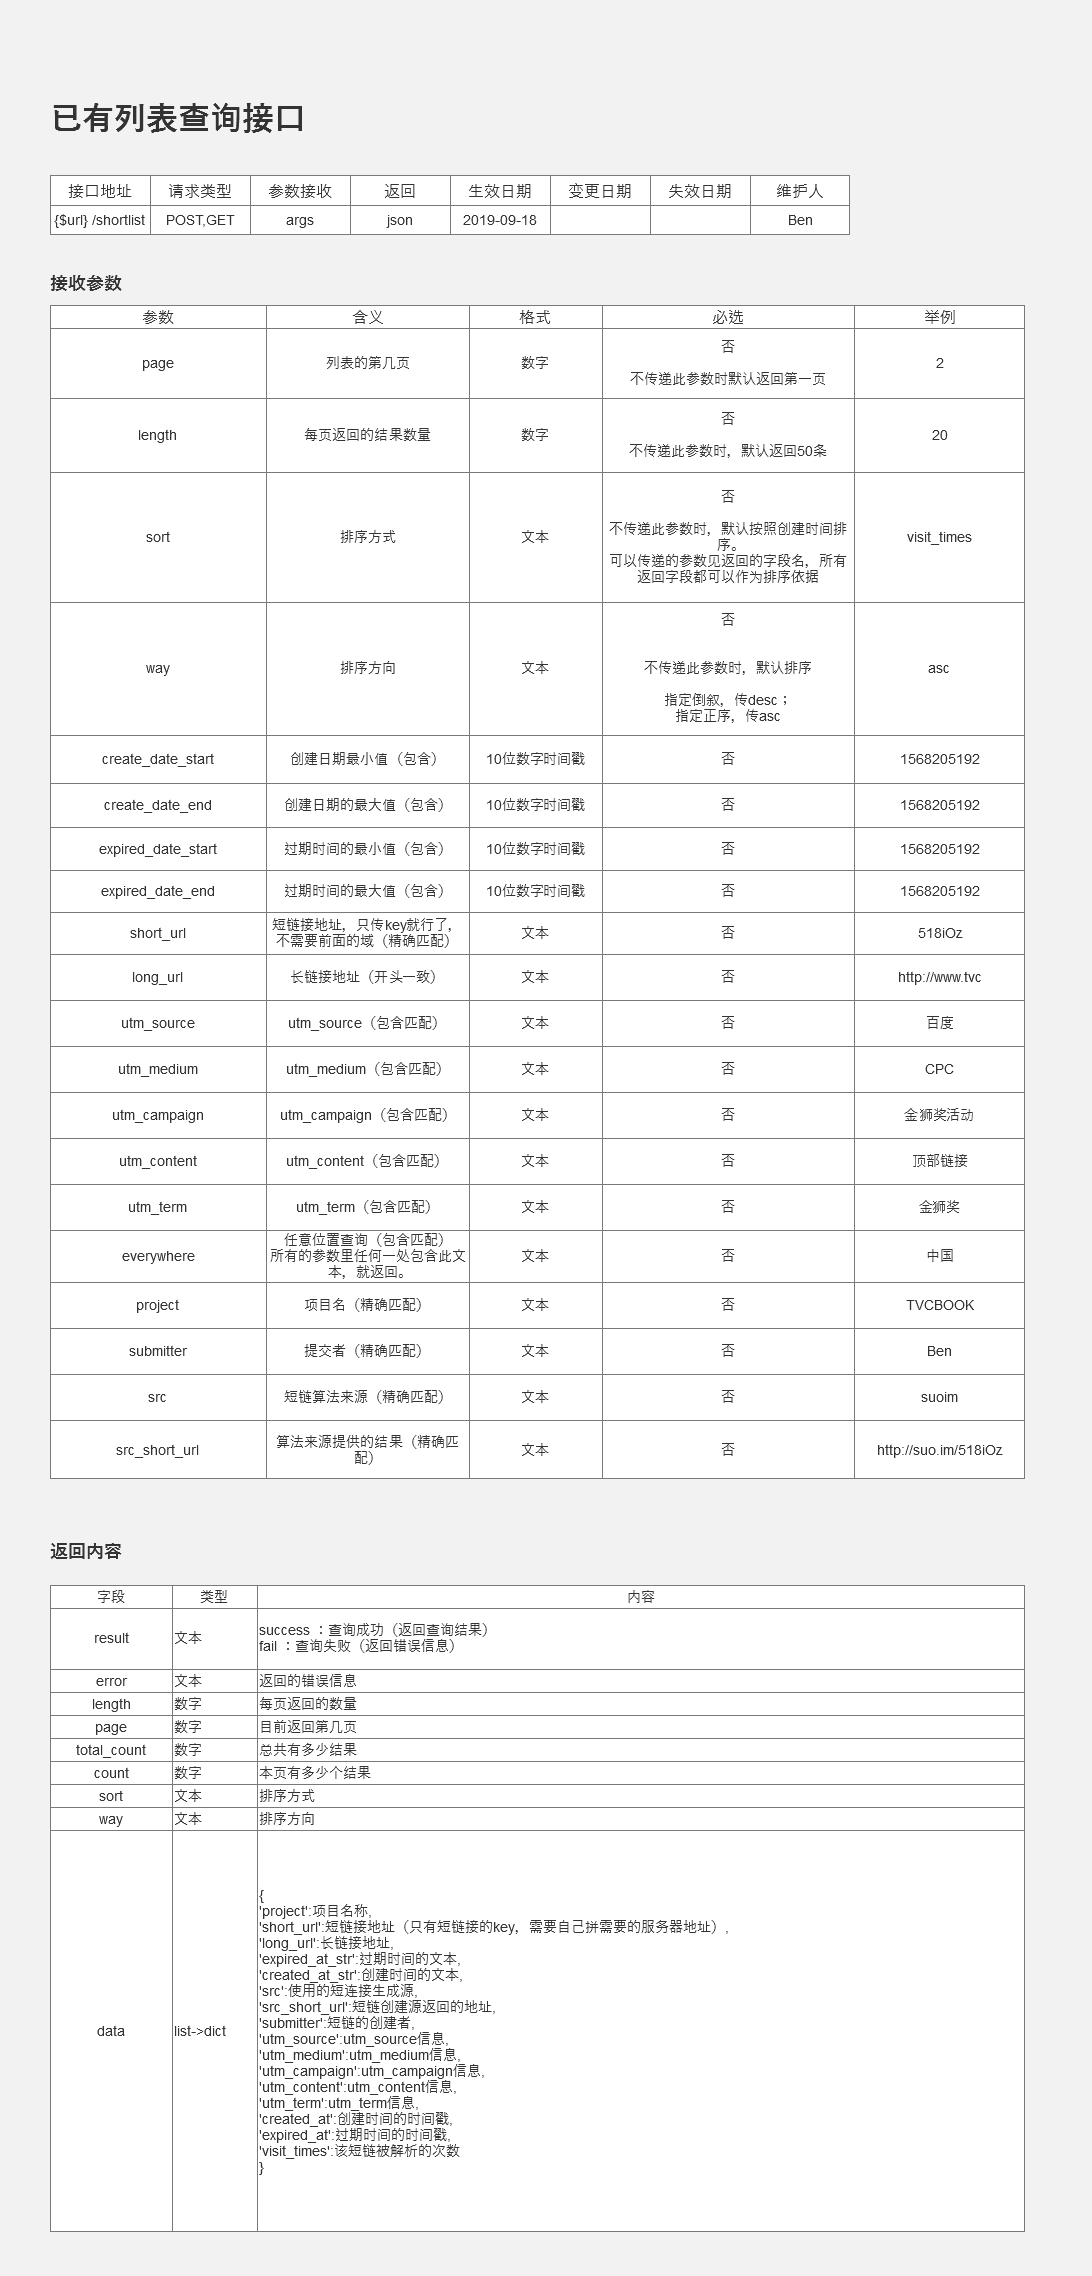
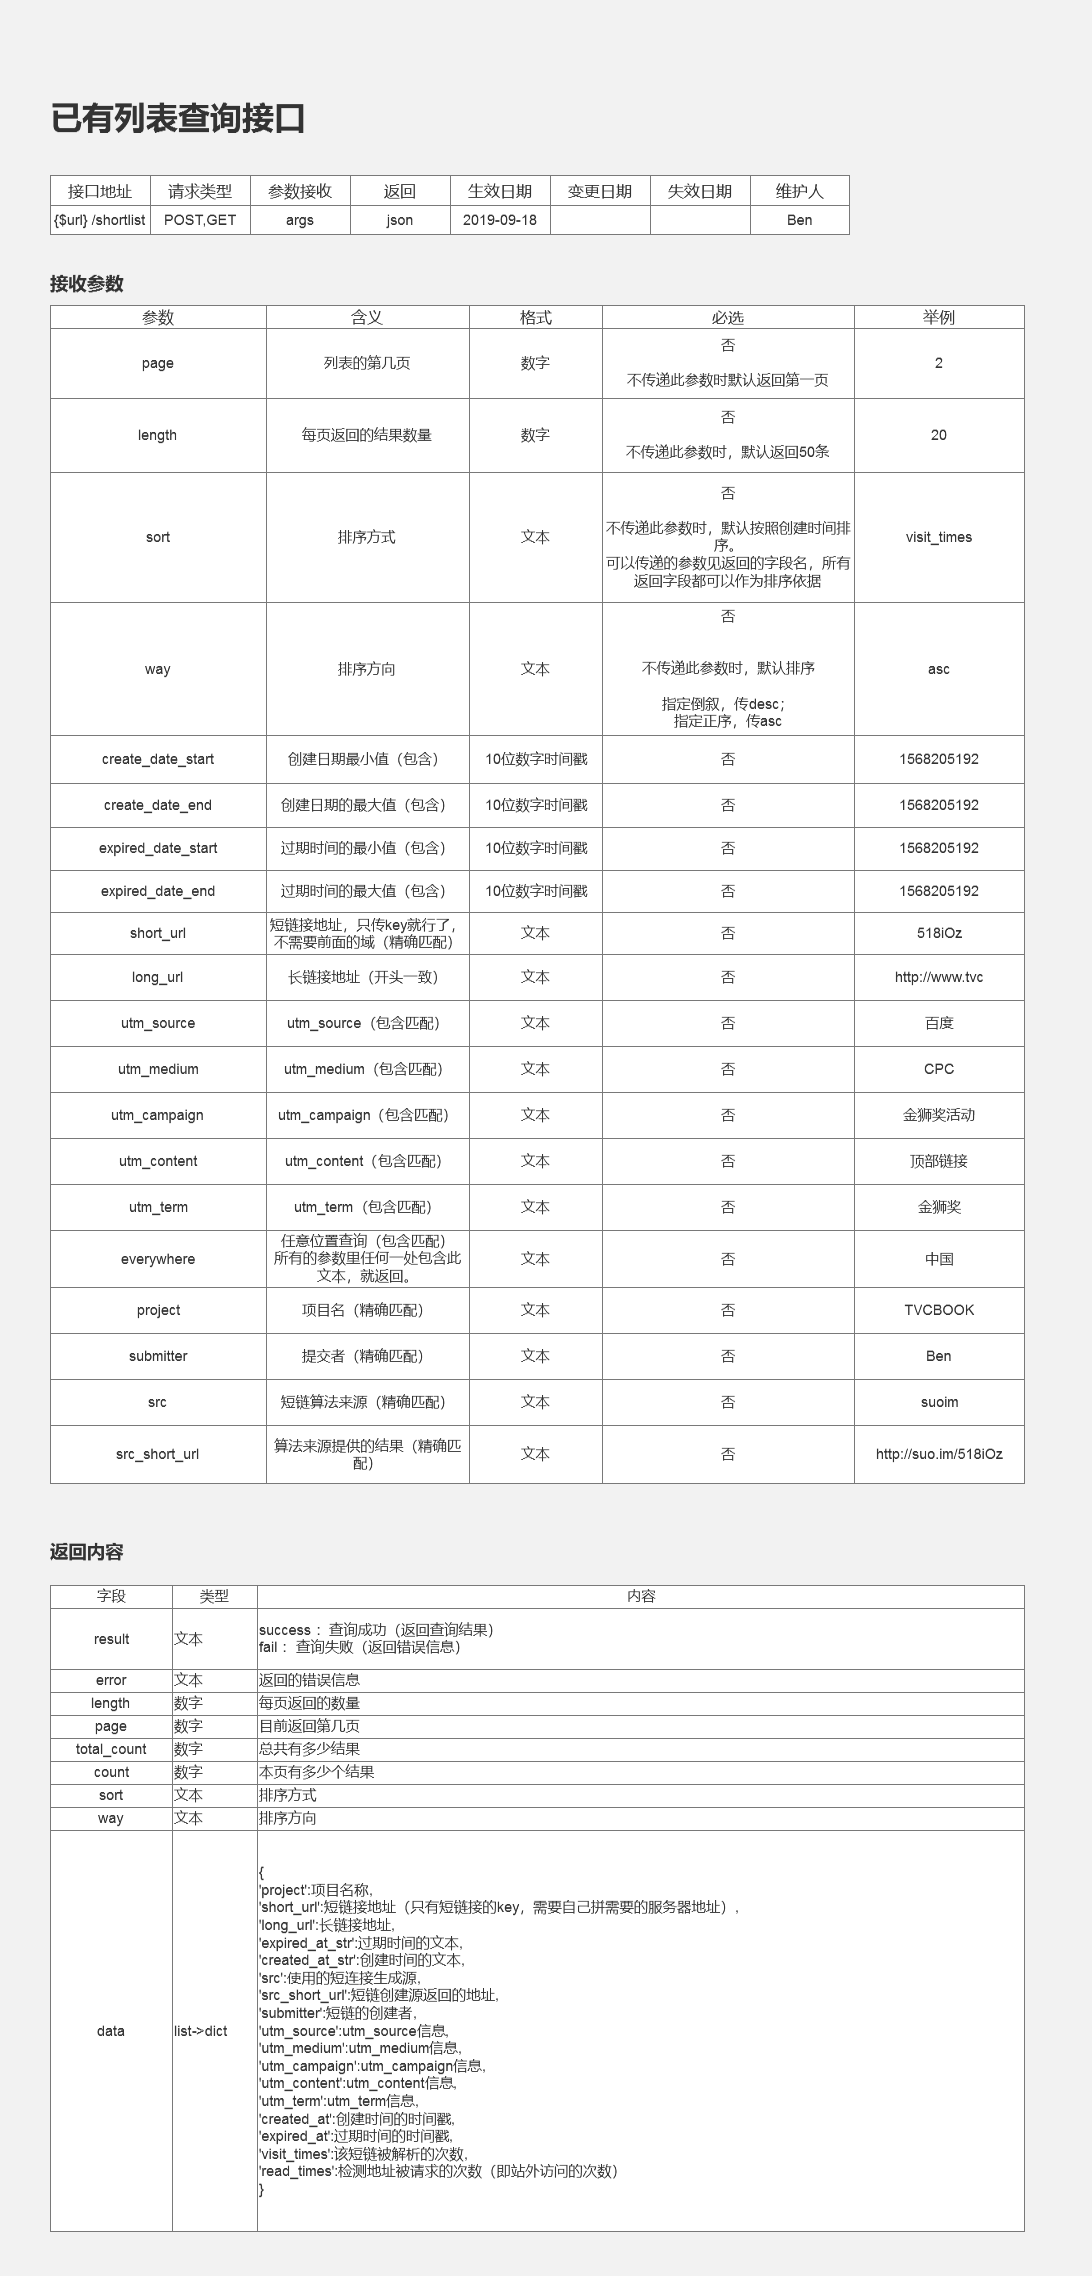
增加站外浏览记录功能： 本次升级需要增加新表shortcut_read。创建新项目时会自动补充该表。 站外浏览记录跟短链解析公用一个short_url做key，把<domain>/<short_url>.gif作为一张图插在需要监测的第三方页面上，比如外部论坛，外发邮件，页面被访问时，会把访问记录写在shortcut_read表里。该功能用来监测邮件打开，论坛等不允许挂js的页面效果不错。 可以使用/shortlist接口获取浏览数量信息，也可以自行查表。
优化了短链解析的性能：
短链解析记录之前同步插入数据库，在数据库繁忙时，短链解析会偶尔失败。新版短链解析支持使用kafka缓冲，消除了这个性能瓶颈。

diff --git a/component/api.py b/component/api.py
@@ -18,7 +18,7 @@ import base64
 import json
 import pprint
 import os
-from component.db_func import insert_event,get_long_url_from_short,insert_shortcut_history,check_long_url,insert_shortcut,show_shortcut,count_shortcut,show_check,insert_properties,insert_user_db,show_project,read_mobile_ad_list,count_mobile_ad_list,read_mobile_ad_src_list,check_mobile_ad_url,insert_mobile_ad_list,distinct_id_query
+from component.db_func import insert_event,get_long_url_from_short,insert_shortcut_history,check_long_url,insert_shortcut,show_shortcut,count_shortcut,show_check,insert_properties,insert_user_db,show_project,read_mobile_ad_list,count_mobile_ad_list,read_mobile_ad_src_list,check_mobile_ad_url,insert_mobile_ad_list,distinct_id_query,insert_shortcut_read
 from component.db_op import *
 from geoip.geo import get_addr,get_asn
 import gzip
@@ -200,9 +200,12 @@ def get_long(short_url):
     ip = request.remote_addr#服务器直接暴露
   else:
     ip = request.headers.get('X-Forwarded-For') #获取SLB真实地址
-  time2 = timenow = int(time.time()) - time1
-  insert_shortcut_history(short_url=short_url,result=status,cost_time=time2,ip=ip,user_agent=User_Agent,accept_language=Accept_Language,ua_platform=ua_platform,ua_browser=ua_browser,ua_version=ua_version,ua_language=ua_language)
-  print(short_url,long_url,status)
+  time2 = int(time.time()) - time1
+  if admin.use_kafka is False:
+    insert_shortcut_history(short_url=short_url,result=status,cost_time=time2,ip=ip,user_agent=User_Agent,accept_language=Accept_Language,ua_platform=ua_platform,ua_browser=ua_browser,ua_version=ua_version,ua_language=ua_language,created_at=time1)
+  elif admin.use_kafka is True:
+    msg = {"group":"shortcut_history","data":{"short_url":short_url,"status":status,"time2":time2,"ip":ip,"user_agent":User_Agent,"accept_language":Accept_Language,"ua_platform":ua_platform,"ua_browser":ua_browser,"ua_version":ua_version,"ua_language":ua_language,"created_at":time1}}
+    insert_message_to_kafka(msg=msg)
   if status == 'success':
     return redirect(long_url)
   elif status == 'expired':
@@ -303,7 +306,7 @@ def show_short_cut_list():
   if total_count[0][0] > 0:
     result,count = show_shortcut(page=page,length=length,filters=add_on_params,sort=sort,way=way)
     if count >0:
-      result_name = ['project','short_url','long_url','expired_at_str','created_at_str','src','src_short_url','submitter','utm_source','utm_medium','utm_campaign','utm_content','utm_term','created_at','expired_at','visit_times']
+      result_name = ['project','short_url','long_url','expired_at_str','created_at_str','src','src_short_url','submitter','utm_source','utm_medium','utm_campaign','utm_content','utm_term','created_at','expired_at','visit_times','read_times']
       return_data = []
       for item in result:
         zipped = dict(zip(result_name,item))
@@ -421,6 +424,7 @@ def insert_installation_track(project, data_decode, User_Agent, Host, Connection
                     ip_asn, url, referrer, remark, ua_platform, ua_browser, ua_version, ua_language, ip_is_good, ip_asn_is_good, created_at=None, updated_at=None,use_kafka=admin.use_kafka):
   start_time = time.time()
   timenow13 = int(round(time.time() * 1000))
+  distinct_id = 'undefined'
   track_id  = 0
   dist_id_name = ['IDFA','androidid','android_id','IMEI','Idfa','Imei','imei','idfa']
   distinct_id = 'undefined'
@@ -717,3 +721,27 @@ def who_am_i():
 
   returnjson = {'ip':ip,'ip_city':ip_city,'ip_asn':ip_asn,'ip_is_good':ip_is_good,'ip_asn_is_good':ip_asn_is_good,'User_Agent':User_Agent,'Host':Host,'Connection':Connection,'Pragma':Pragma,'Cache_Control':Cache_Control,'Accept':Accept,'Accept_Encoding':Accept_Encoding,'Accept_Language':Accept_Language,'ua_platform':ua_platform,'ua_browser':ua_browser,'ua_version':ua_version,'ua_language':ua_language,'url':url,'referrer':referrer}
   return jsonify(returnjson)
+
+def shortcut_read(short_url):
+  time1 = int(time.time())
+  User_Agent = request.headers.get('User-Agent') 
+  Accept_Language = request.headers.get('Accept-Language')#: zh-CN,zh;q=0.9
+  ua_platform = request.user_agent.platform #客户端操作系统
+  ua_browser = request.user_agent.browser #客户端的浏览器
+  ua_version = request.user_agent.version #客户端浏览器的版本
+  ua_language = request.user_agent.language #客户端浏览器的语言
+  url = request.url
+  referrer = request.referrer
+  if request.headers.get('X-Forwarded-For') is None:
+    ip = request.remote_addr#服务器直接暴露
+  else:
+    ip = request.headers.get('X-Forwarded-For') #获取SLB真实地址
+  if admin.use_kafka is False:
+    insert_shortcut_read(short_url=short_url,ip=ip,user_agent=User_Agent,accept_language=Accept_Language,ua_platform=ua_platform,ua_browser=ua_browser,ua_version=ua_version,ua_language=ua_language,referrer=referrer,created_at=time1)
+  elif admin.use_kafka is True:
+    msg = {"group":"shortcut_read","data":{"short_url":short_url,"ip":ip,"user_agent":User_Agent,"accept_language":Accept_Language,"ua_platform":ua_platform,"ua_browser":ua_browser,"ua_version":ua_version,"ua_language":ua_language,"referrer":referrer,"created_at":time1}}
+    insert_message_to_kafka(msg=msg)
+  bitimage1 = os.path.join('image','43byte.gif')
+  with open(bitimage1, 'rb') as f:
+    returnimage = f.read()
+  return Response(returnimage, mimetype="image/gif")

diff --git a/component/db_func.py b/component/db_func.py
@@ -131,7 +131,7 @@ def insert_shortcut(project,short_url,long_url,expired_at,src,src_short_url,subm
 
 
 def show_shortcut(page,length,filters='',sort='`shortcut`.created_at',way='desc'):
-  sql = """SELECT `shortcut`.project,`shortcut`.short_url,`shortcut`.long_url,from_unixtime(`shortcut`.expired_at),from_unixtime(`shortcut`.created_at),`shortcut`.src,`shortcut`.src_short_url,`shortcut`.submitter,`shortcut`.utm_source,`shortcut`.utm_medium,`shortcut`.utm_campaign,`shortcut`.utm_content,`shortcut`.utm_term,shortcut.created_at,shortcut.expired_at,count(shortcut_history.created_at) as visit_times FROM `shortcut` left join `shortcut_history` on `shortcut`.short_url = `shortcut_history`.`short_url` {filters} GROUP BY `shortcut`.project,`shortcut`.short_url,`shortcut`.long_url,from_unixtime(`shortcut`.expired_at),from_unixtime(`shortcut`.created_at),`shortcut`.src,`shortcut`.src_short_url,`shortcut`.submitter,`shortcut`.utm_source,`shortcut`.utm_medium,`shortcut`.utm_campaign,`shortcut`.utm_content,`shortcut`.utm_term,shortcut.created_at,shortcut.expired_at ORDER BY {sort} {way} Limit {start_pageline},{length}""".format(start_pageline=(page-1)*length,length=length,filters=filters,sort=sort,way=way)
+  sql = """SELECT `shortcut`.project,`shortcut`.short_url,`shortcut`.long_url,from_unixtime(`shortcut`.expired_at),from_unixtime(`shortcut`.created_at),`shortcut`.src,`shortcut`.src_short_url,`shortcut`.submitter,`shortcut`.utm_source,`shortcut`.utm_medium,`shortcut`.utm_campaign,`shortcut`.utm_content,`shortcut`.utm_term,shortcut.created_at,shortcut.expired_at,count(shortcut_history.created_at) as visit_times,count(shortcut_read.created_at) as read_times FROM `shortcut` left join `shortcut_history` on `shortcut`.short_url = `shortcut_history`.`short_url`  left join `shortcut_read` on `shortcut`.short_url = `shortcut_read`.`short_url` {filters} GROUP BY `shortcut`.project,`shortcut`.short_url,`shortcut`.long_url,from_unixtime(`shortcut`.expired_at),from_unixtime(`shortcut`.created_at),`shortcut`.src,`shortcut`.src_short_url,`shortcut`.submitter,`shortcut`.utm_source,`shortcut`.utm_medium,`shortcut`.utm_campaign,`shortcut`.utm_content,`shortcut`.utm_term,shortcut.created_at,shortcut.expired_at ORDER BY {sort} {way} Limit {start_pageline},{length}""".format(start_pageline=(page-1)*length,length=length,filters=filters,sort=sort,way=way)
   # print(sql)
   result,count = do_tidb_select(sql)
   if count == 0:
@@ -150,9 +150,9 @@ def count_shortcut(filters=''):
   return result
 
 
-def insert_shortcut_history(short_url,result,cost_time,ip,user_agent,accept_language,ua_platform,ua_browser,ua_version,ua_language):
+def insert_shortcut_history(short_url,result,cost_time,ip,user_agent,accept_language,ua_platform,ua_browser,ua_version,ua_language,created_at=None):
   timenow = int(time.time())
-  sql = """insert HIGH_PRIORITY shortcut_history (`short_url`,`result`,`cost_time`,`ip`,`created_at`,`user_agent`,`accept_language`,`ua_platform`,`ua_browser`,`ua_version`,`ua_language`) values ('{short_url}','{result}',{cost_time},'{ip}',{created_at},'{user_agent}','{accept_language}','{ua_platform}','{ua_browser}','{ua_version}','{ua_language}')""".format(short_url=short_url,result=result,cost_time=cost_time,ip=ip,created_at=timenow,user_agent=user_agent,accept_language=accept_language,ua_platform=ua_platform,ua_browser=ua_browser,ua_version=ua_version,ua_language=ua_language).replace("'None'","Null").replace("None","Null")
+  sql = """insert HIGH_PRIORITY shortcut_history (`short_url`,`result`,`cost_time`,`ip`,`created_at`,`user_agent`,`accept_language`,`ua_platform`,`ua_browser`,`ua_version`,`ua_language`) values ('{short_url}','{result}',{cost_time},'{ip}',{created_at},'{user_agent}','{accept_language}','{ua_platform}','{ua_browser}','{ua_version}','{ua_language}')""".format(short_url=short_url,result=result,cost_time=cost_time,ip=ip,created_at= created_at if created_at else timenow,user_agent=user_agent,accept_language=accept_language,ua_platform=ua_platform,ua_browser=ua_browser,ua_version=ua_version,ua_language=ua_language).replace("'None'","Null").replace("None","Null")
   result,count = do_tidb_exe(sql)
   print('已插入解析记录'+str(count))
 
@@ -289,3 +289,10 @@ latest_traffic_source_type
 from {project}_device where distinct_id = '{distinct_id}'""".format(project=project,distinct_id=distinct_id)
   result,count = do_tidb_select(sql)
   return result,count
+
+
+def insert_shortcut_read(short_url,ip,user_agent,accept_language,ua_platform,ua_browser,ua_version,ua_language,referrer,created_at=None):
+  timenow = int(time.time())
+  sql = """insert HIGH_PRIORITY shortcut_read (`short_url`,`ip`,`created_at`,`user_agent`,`accept_language`,`ua_platform`,`ua_browser`,`ua_version`,`ua_language`,`referrer`) values ('{short_url}','{ip}',{created_at},'{user_agent}','{accept_language}','{ua_platform}','{ua_browser}','{ua_version}','{ua_language}','{referrer}')""".format(short_url=short_url,ip=ip,created_at=created_at if created_at else timenow,user_agent=user_agent,accept_language=accept_language,ua_platform=ua_platform,ua_browser=ua_browser,ua_version=ua_version,ua_language=ua_language,referrer=referrer).replace("'None'","Null").replace("None","Null")
+  result,count = do_tidb_exe(sql)
+  print('已插入解析记录'+str(count))

diff --git a/component/setup_mysql.py b/component/setup_mysql.py
@@ -111,12 +111,27 @@ CREATE TABLE if not EXISTS `mobile_ad_src` (
   `event_count` bigint(20) DEFAULT NULL COMMENT '事件量',
   `device_count` bigint(20) DEFAULT NULL COMMENT '设备数',
   `user_count` bigint(20) DEFAULT NULL COMMENT '用户数'
+) ENGINE=InnoDB DEFAULT CHARSET=utf8mb4 COLLATE=utf8mb4_bin;
+"""
+  created_shortcut_read="""CREATE TABLE if not EXISTS `shortcut_read` (
+  `short_url` varchar(255) NOT NULL COMMENT '短链地址',
+  `ip` varchar(20) DEFAULT NULL COMMENT 'ip',
+  `created_at` int(11) DEFAULT NULL COMMENT '时间',
+  `user_agent` text DEFAULT NULL COMMENT 'ua',
+  `accept_language` text DEFAULT NULL COMMENT '语言',
+  `ua_platform` varchar(255) DEFAULT NULL COMMENT '平台',
+  `ua_browser` varchar(255) DEFAULT NULL COMMENT '浏览器',
+  `ua_version` varchar(255) DEFAULT NULL COMMENT '版本号',
+  `ua_language` varchar(255) DEFAULT NULL COMMENT '语言',
+  `referrer` text DEFAULT NULL COMMENT '页面',
+  KEY `short_url` (`short_url`)
 ) ENGINE=InnoDB DEFAULT CHARSET=utf8mb4 COLLATE=utf8mb4_bin;"""
   do_tidb_exe(create_shortcut)
   do_tidb_exe(create_shortcut_history)
   do_tidb_exe(create_mobile_ad_src)
   do_tidb_exe(create_mobile_ad_list)
   do_tidb_exe(create_project_list)
+  do_tidb_exe(created_shortcut_read)
   # print('project_list已生成')
   check_sql = "show tables"
   check_result,check_count = do_tidb_select(check_sql)

diff --git a/flask_main.py b/flask_main.py
@@ -1,7 +1,7 @@
 # -*- coding: utf-8 -*
 # author: unknowwhite@outlook.com
 # wechat: Ben_Xiaobai
-from component.api import get_datas, get_long, shortit, show_short_cut_list, ghost_check ,installation_track,show_project_list,show_mobile_ad_list,show_mobile_src_list,create_mobile_ad_link,check_exist_distinct_id,who_am_i
+from component.api import get_datas, get_long, shortit, show_short_cut_list, ghost_check ,installation_track,show_project_list,show_mobile_ad_list,show_mobile_src_list,create_mobile_ad_link,check_exist_distinct_id,who_am_i,shortcut_read
 from flask_cors import CORS
 from flask import jsonify
 from flask import make_response
@@ -43,6 +43,7 @@ app.add_url_rule('/show_project_list', view_func=show_project_list, methods=['PO
 app.add_url_rule('/sa.gif', view_func=get_datas, methods=['GET', 'POST'])#神策SDK上报接口
 #短连接
 app.add_url_rule('/t/<short_url>', view_func=get_long, methods=['GET', 'POST'])#解析接口
+app.add_url_rule('/<short_url>.gif', view_func=shortcut_read, methods=['GET'])#站外跟踪
 app.add_url_rule('/shortit', view_func=shortit, methods=['POST'])#短链创建接口
 app.add_url_rule('/shortlist', view_func=show_short_cut_list,methods=['GET', 'POST'])#短链列表
 #埋点管理

diff --git a/component/setup.py b/component/setup.py
@@ -105,6 +105,19 @@ CREATE TABLE if not EXISTS `mobile_ad_list` (
   `utm_content` varchar(2048) DEFAULT NULL COMMENT 'utm_content',
   `utm_term` varchar(2048) DEFAULT NULL COMMENT 'utm_term',
   PRIMARY KEY (`url`)
+) ENGINE=InnoDB DEFAULT CHARSET=utf8mb4 COLLATE=utf8mb4_bin;
+CREATE TABLE if not EXISTS `shortcut_read` (
+  `short_url` varchar(255) NOT NULL COMMENT '短链地址',
+  `ip` varchar(20) DEFAULT NULL COMMENT 'ip',
+  `created_at` int(11) DEFAULT NULL COMMENT '时间',
+  `user_agent` text DEFAULT NULL COMMENT 'ua',
+  `accept_language` text DEFAULT NULL COMMENT '语言',
+  `ua_platform` varchar(255) DEFAULT NULL COMMENT '平台',
+  `ua_browser` varchar(255) DEFAULT NULL COMMENT '浏览器',
+  `ua_version` varchar(255) DEFAULT NULL COMMENT '版本号',
+  `ua_language` varchar(255) DEFAULT NULL COMMENT '语言',
+  `referrer` text DEFAULT NULL COMMENT '页面',
+  KEY `short_url` (`short_url`)
 ) ENGINE=InnoDB DEFAULT CHARSET=utf8mb4 COLLATE=utf8mb4_bin;"""
   do_tidb_exe(create_project_list)
   # print('project_list已生成')
